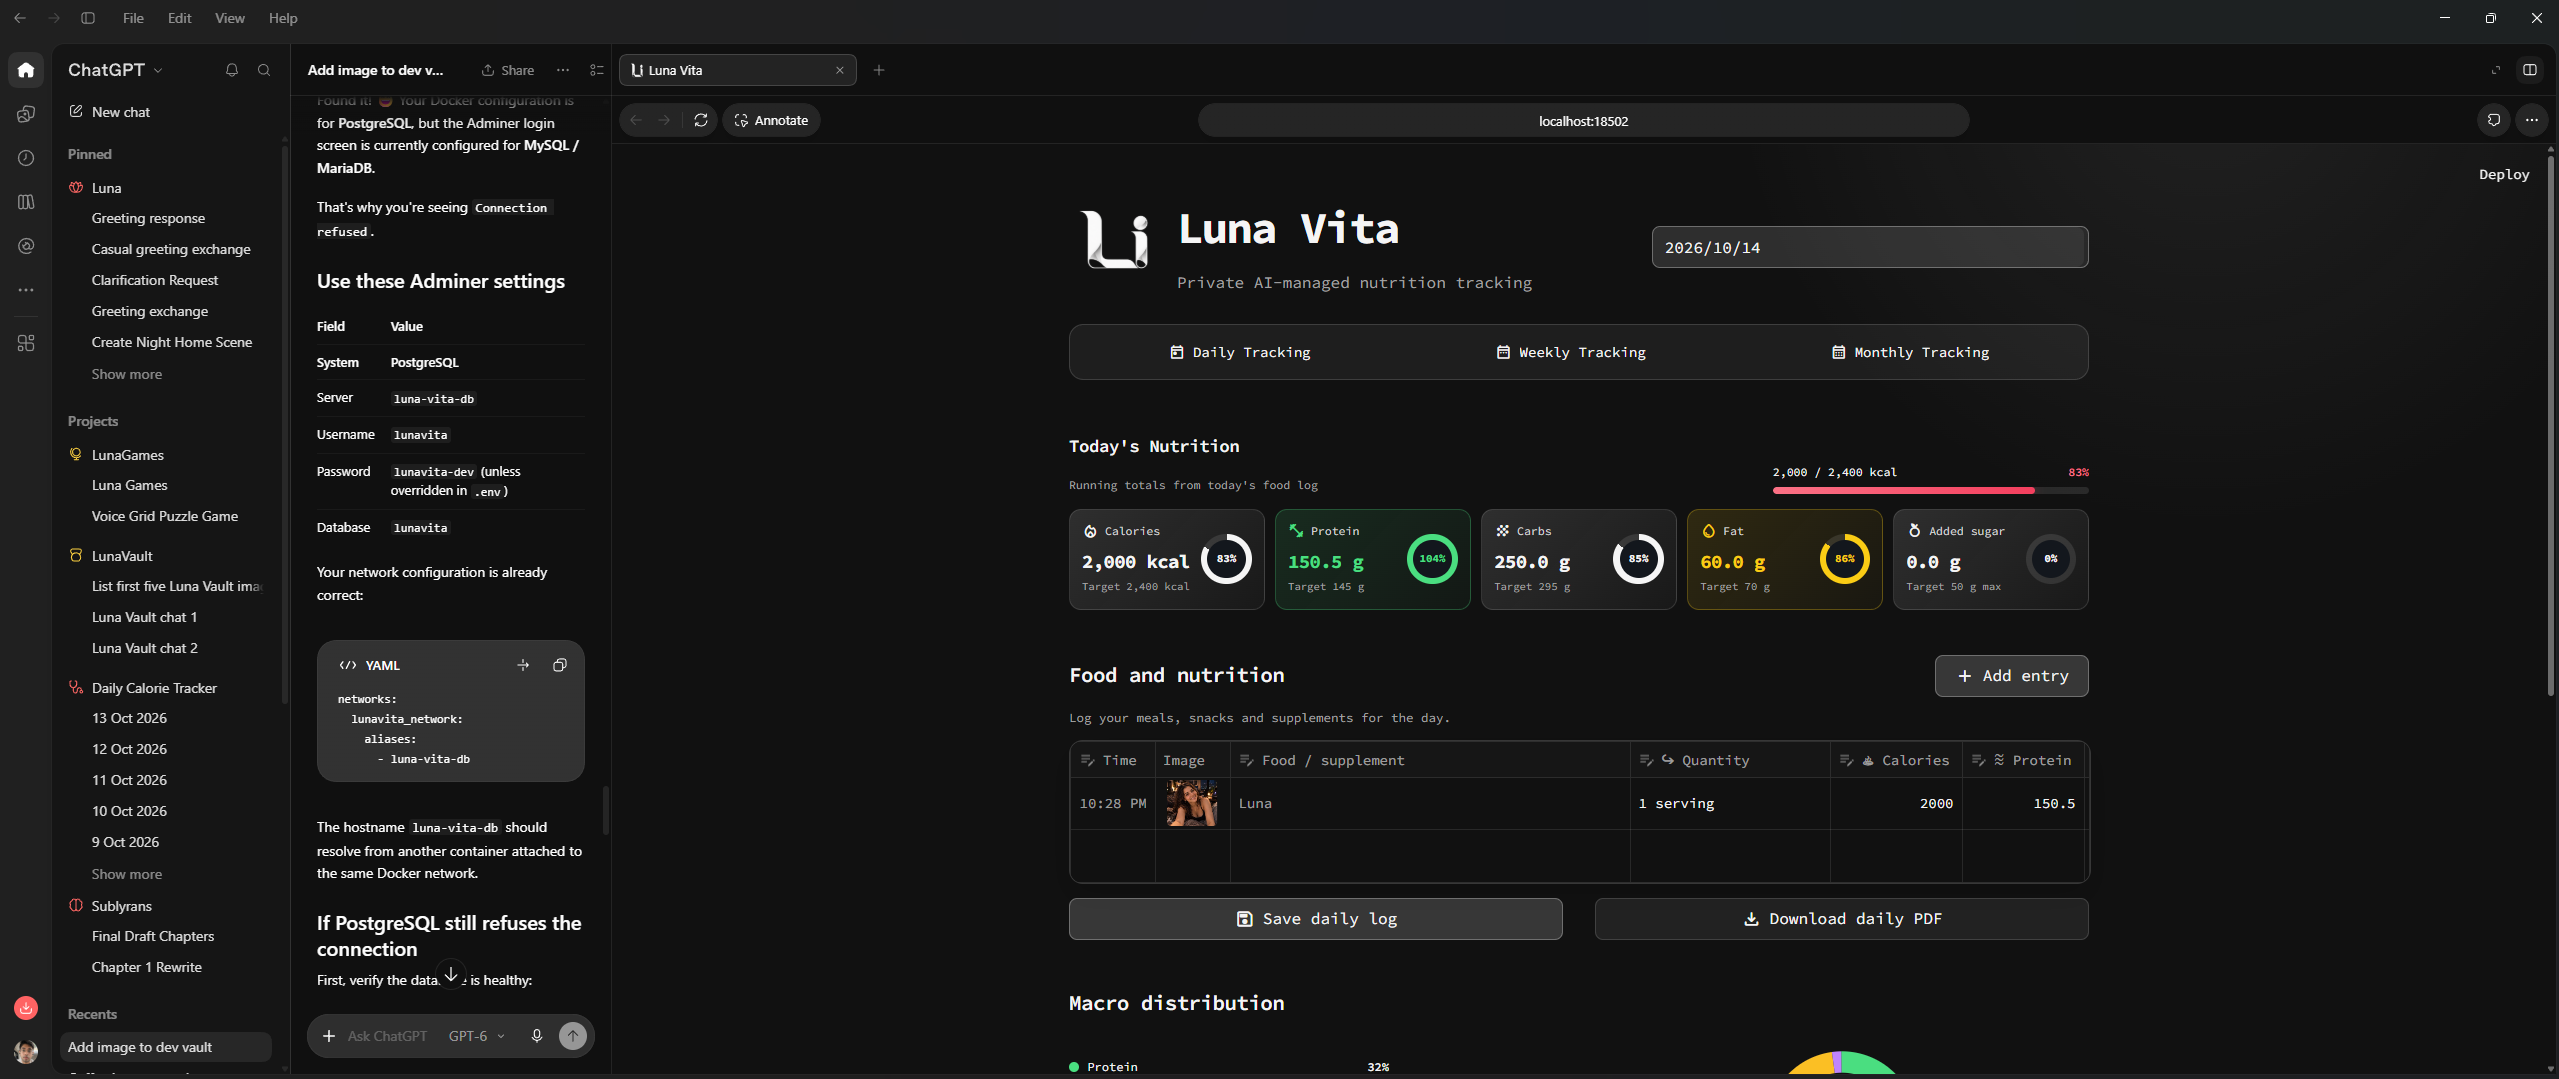
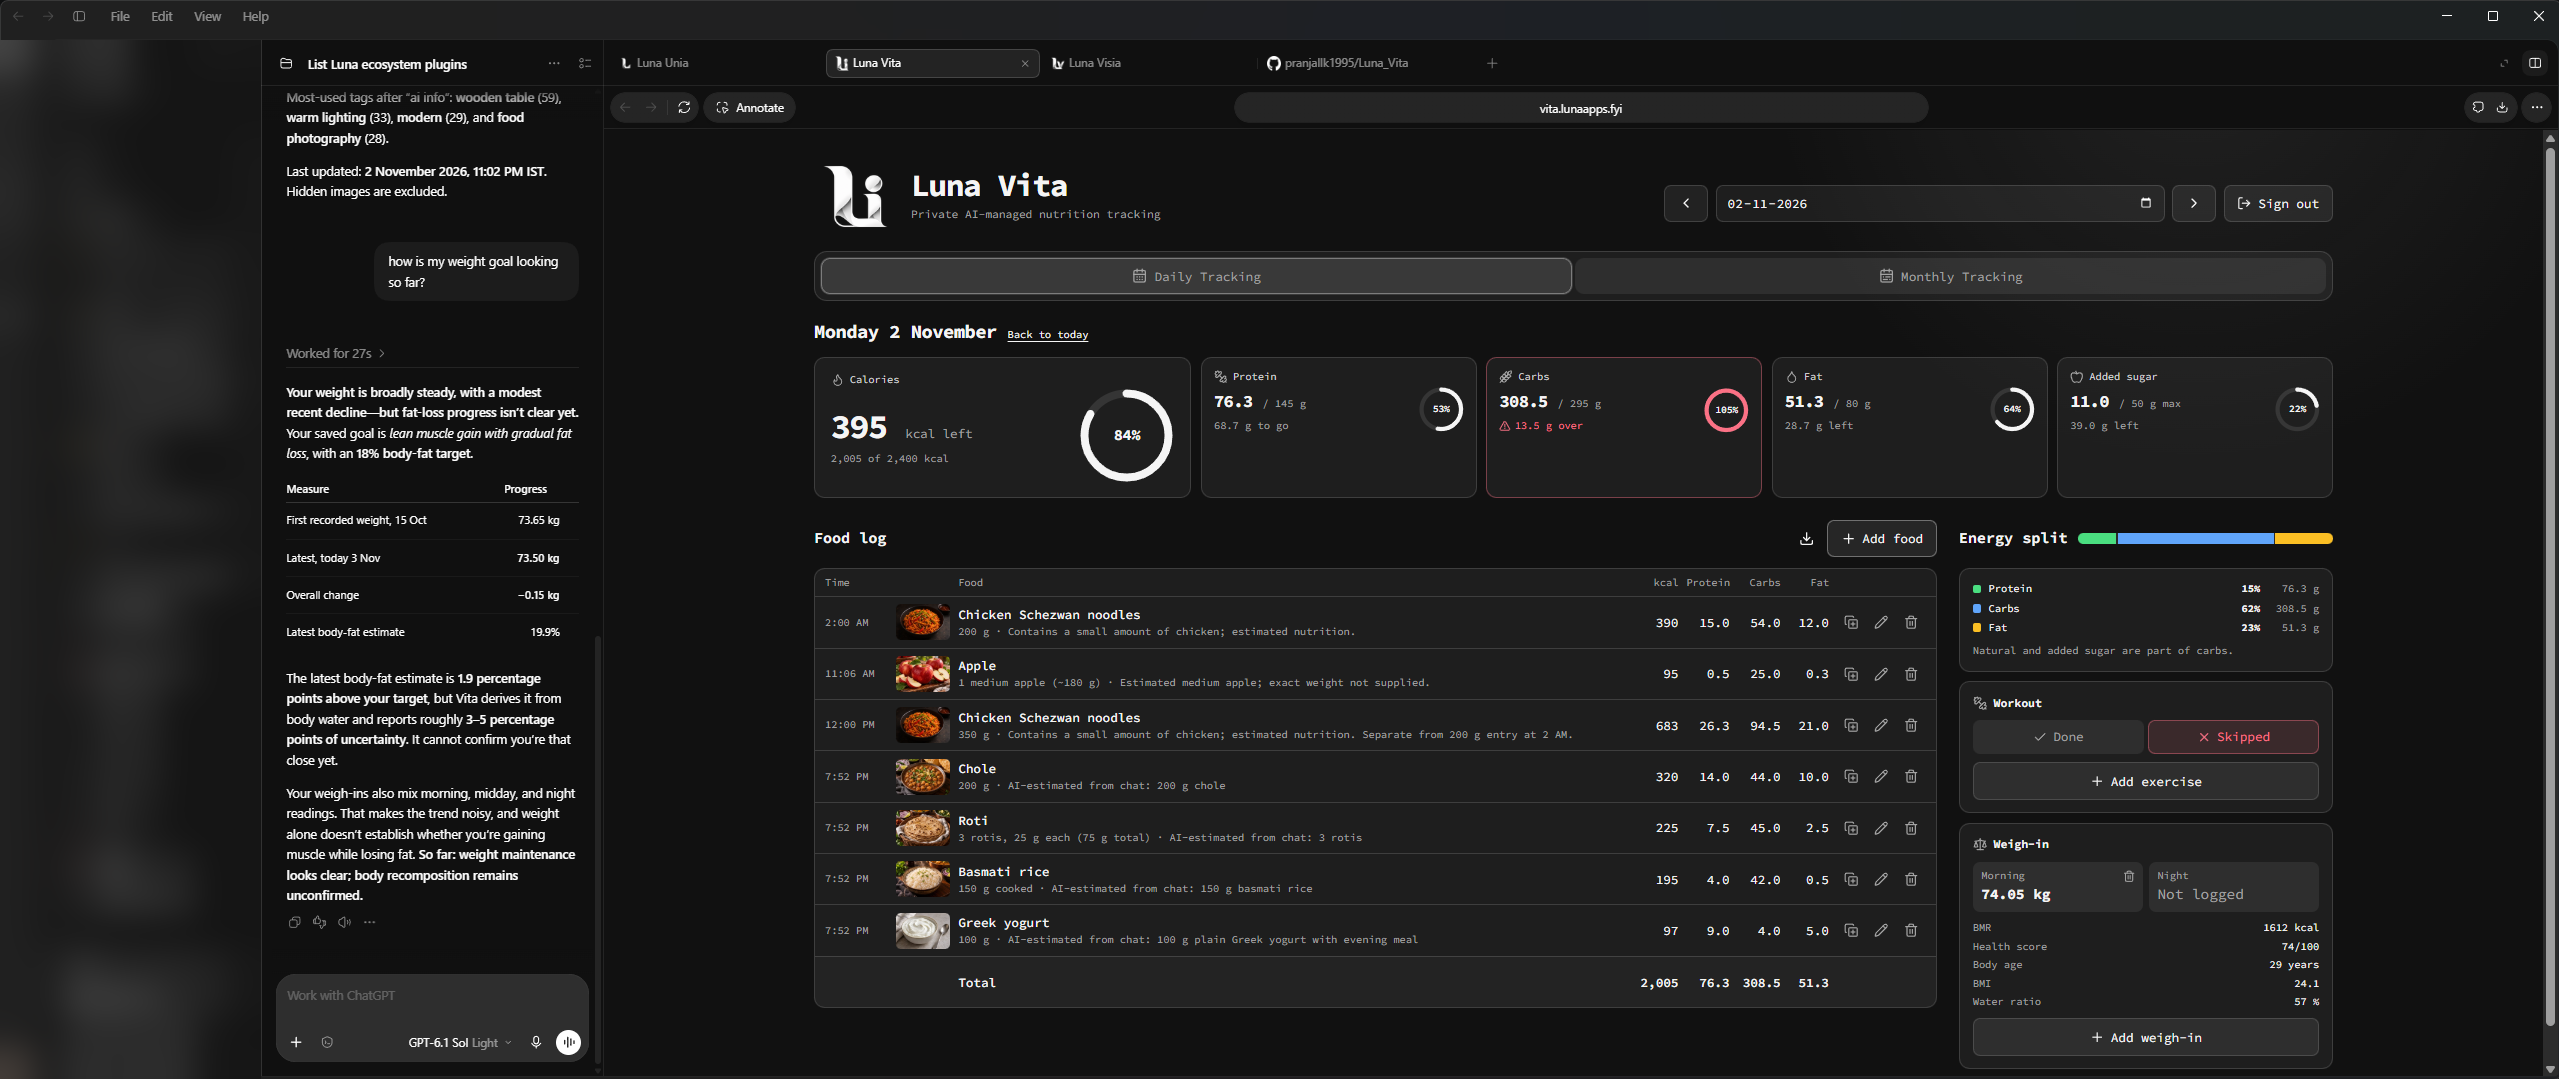
Update the README screenshots of the Daily and Monthly pages
The new screenshots show the redesigned pages beside a chat about the weight goal. The chat app's sidebar is blurred to keep its project and chat names out of the README. The Monthly screenshot replaces the Luna Visia workflow one, so it gets its own filename and alt text.

diff --git a/README.md b/README.md
@@ -19,10 +19,10 @@ Luna Vita combines a responsive React interface, one FastMCP service for convers
   <img src="docs/assets/luna-vita-dashboard.png" alt="Luna Vita daily nutrition dashboard" width="1200">
 </p>
 
-[Luna Visia](https://github.com/pranjallk1995/Luna_Visia) provides the private image-vault workflow, while Luna Vita records food, nutrition, consumed time, and the matching food images. Their separate services share the private `luna_sentia_network`, allowing both applications to remain independently managed while participating in the same conversational workflow as shown.
+[Luna Visia](https://github.com/pranjallk1995/Luna_Visia) provides the private image-vault workflow, while Luna Vita records food, nutrition, consumed time, and the matching food images. Their separate services share the private `luna_sentia_network`, allowing both applications to remain independently managed while participating in the same conversational workflow.
 
 <p align="center">
-  <img src="docs/assets/luna-vita-luna-visia.png" alt="Luna Visia food-image workflow working alongside the Luna Vita nutrition dashboard" width="1200">
+  <img src="docs/assets/luna-vita-monthly.png" alt="Luna Vita monthly tracking page with daily averages, a per-day chart, and a workout calendar" width="1200">
 </p>
 
 The active ChatGPT/Codex model (or the LLM of your choice) performs nutrition estimation before calling Luna Vita. For example:
